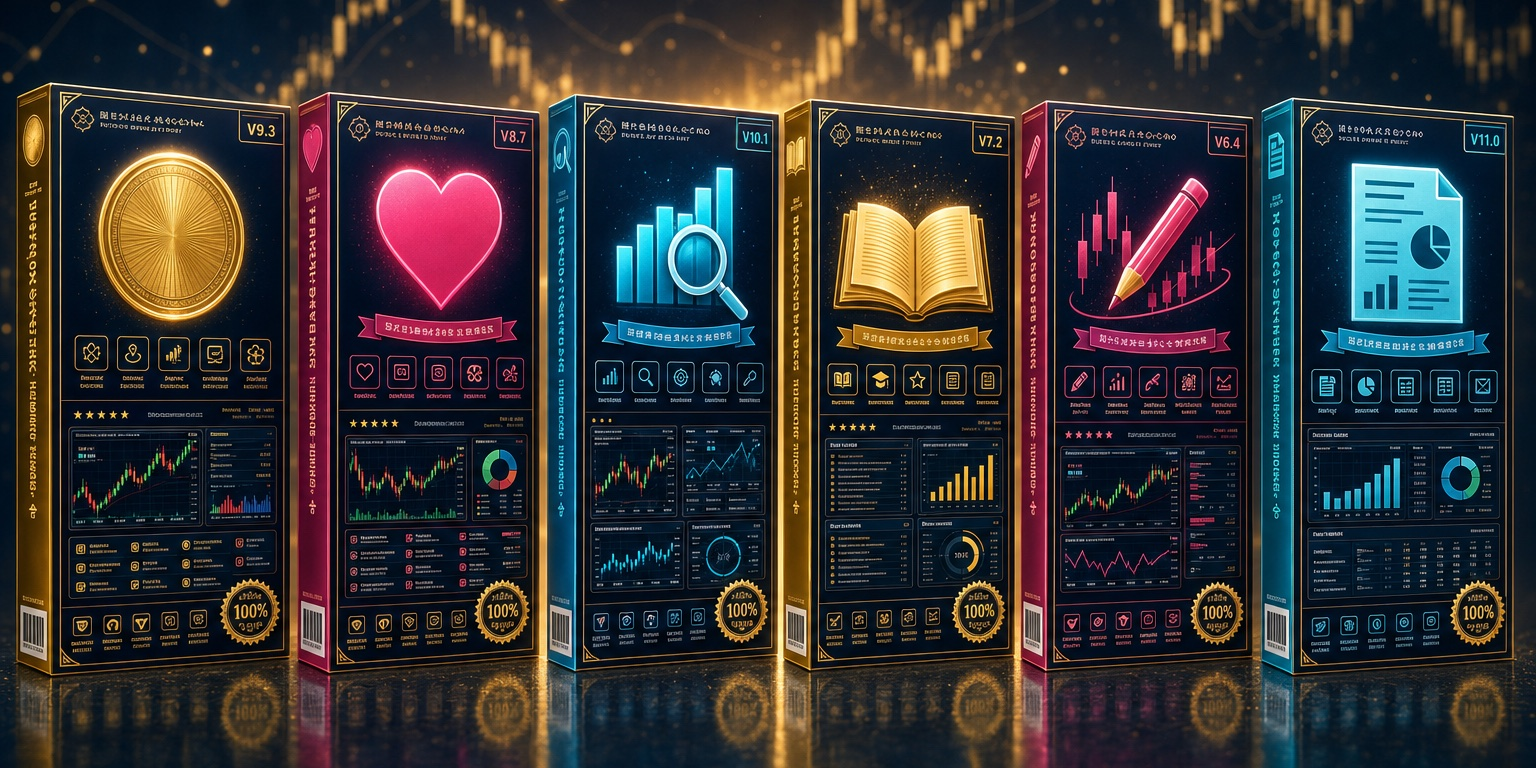
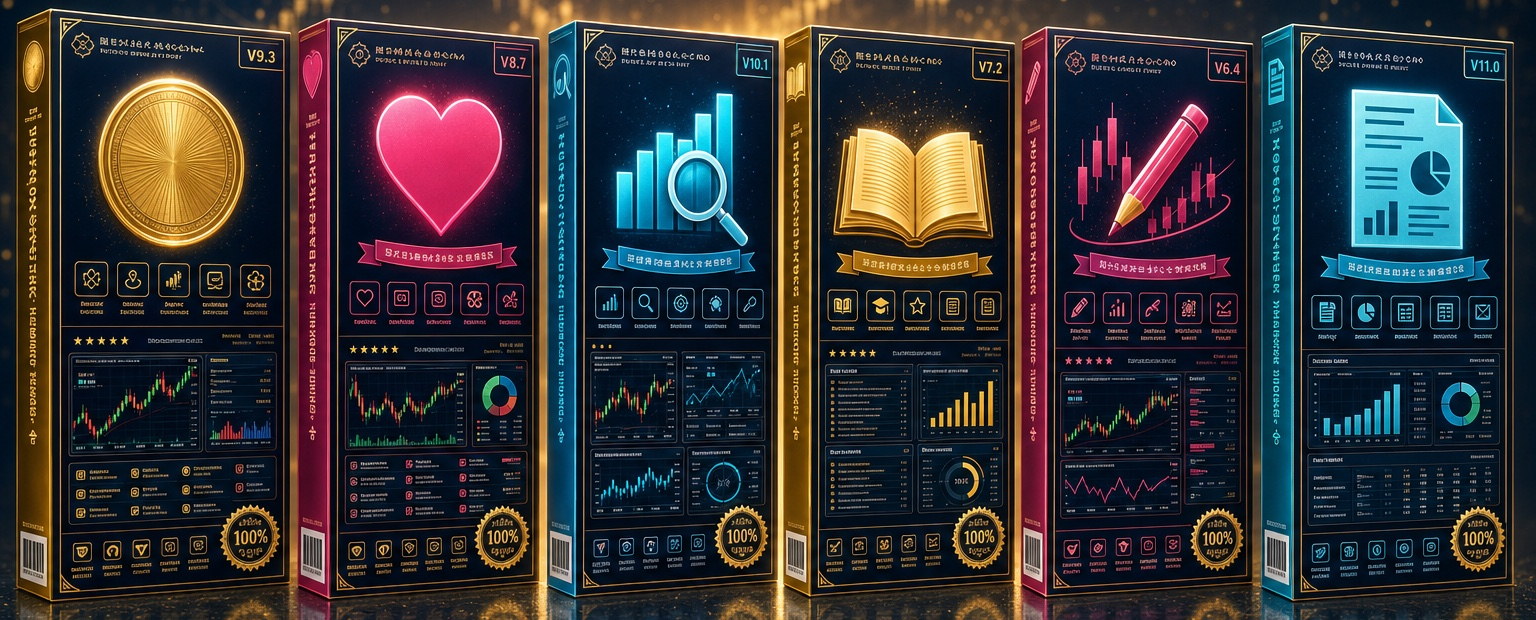
Compress 6AI lineup height: 2.5:1 crop + max-width 860px

diff --git a/a.html b/a.html
@@ -116,7 +116,7 @@
     font-weight:600;margin-top:-18px}
   .card__name{font-family:"Shippori Mincho",serif;font-weight:800;font-size:19px;margin:12px 0 10px;line-height:1.45}
   .card__desc{font-size:14px;color:var(--ink-soft);line-height:1.95}
-  .ai-hero{margin-bottom:52px}
+  .ai-hero{max-width:860px;margin:0 auto 52px}
   .ai-hero img{width:100%;border-radius:14px;box-shadow:0 24px 60px rgba(11,26,59,.28)}
 
   /* testimony (navy) */

diff --git a/b.html b/b.html
@@ -116,7 +116,7 @@
     font-weight:600;margin-top:-18px}
   .card__name{font-family:"Shippori Mincho",serif;font-weight:800;font-size:19px;margin:12px 0 10px;line-height:1.45}
   .card__desc{font-size:14px;color:var(--ink-soft);line-height:1.95}
-  .ai-hero{margin-bottom:52px}
+  .ai-hero{max-width:860px;margin:0 auto 52px}
   .ai-hero img{width:100%;border-radius:14px;box-shadow:0 24px 60px rgba(11,26,59,.28)}
 
   /* testimony (navy) */

diff --git a/c.html b/c.html
@@ -116,7 +116,7 @@
     font-weight:600;margin-top:-18px}
   .card__name{font-family:"Shippori Mincho",serif;font-weight:800;font-size:19px;margin:12px 0 10px;line-height:1.45}
   .card__desc{font-size:14px;color:var(--ink-soft);line-height:1.95}
-  .ai-hero{margin-bottom:52px}
+  .ai-hero{max-width:860px;margin:0 auto 52px}
   .ai-hero img{width:100%;border-radius:14px;box-shadow:0 24px 60px rgba(11,26,59,.28)}
 
   /* testimony (navy) */

diff --git a/index.html b/index.html
@@ -116,7 +116,7 @@
     font-weight:600;margin-top:-18px}
   .card__name{font-family:"Shippori Mincho",serif;font-weight:800;font-size:19px;margin:12px 0 10px;line-height:1.45}
   .card__desc{font-size:14px;color:var(--ink-soft);line-height:1.95}
-  .ai-hero{margin-bottom:52px}
+  .ai-hero{max-width:860px;margin:0 auto 52px}
   .ai-hero img{width:100%;border-radius:14px;box-shadow:0 24px 60px rgba(11,26,59,.28)}
 
   /* testimony (navy) */
